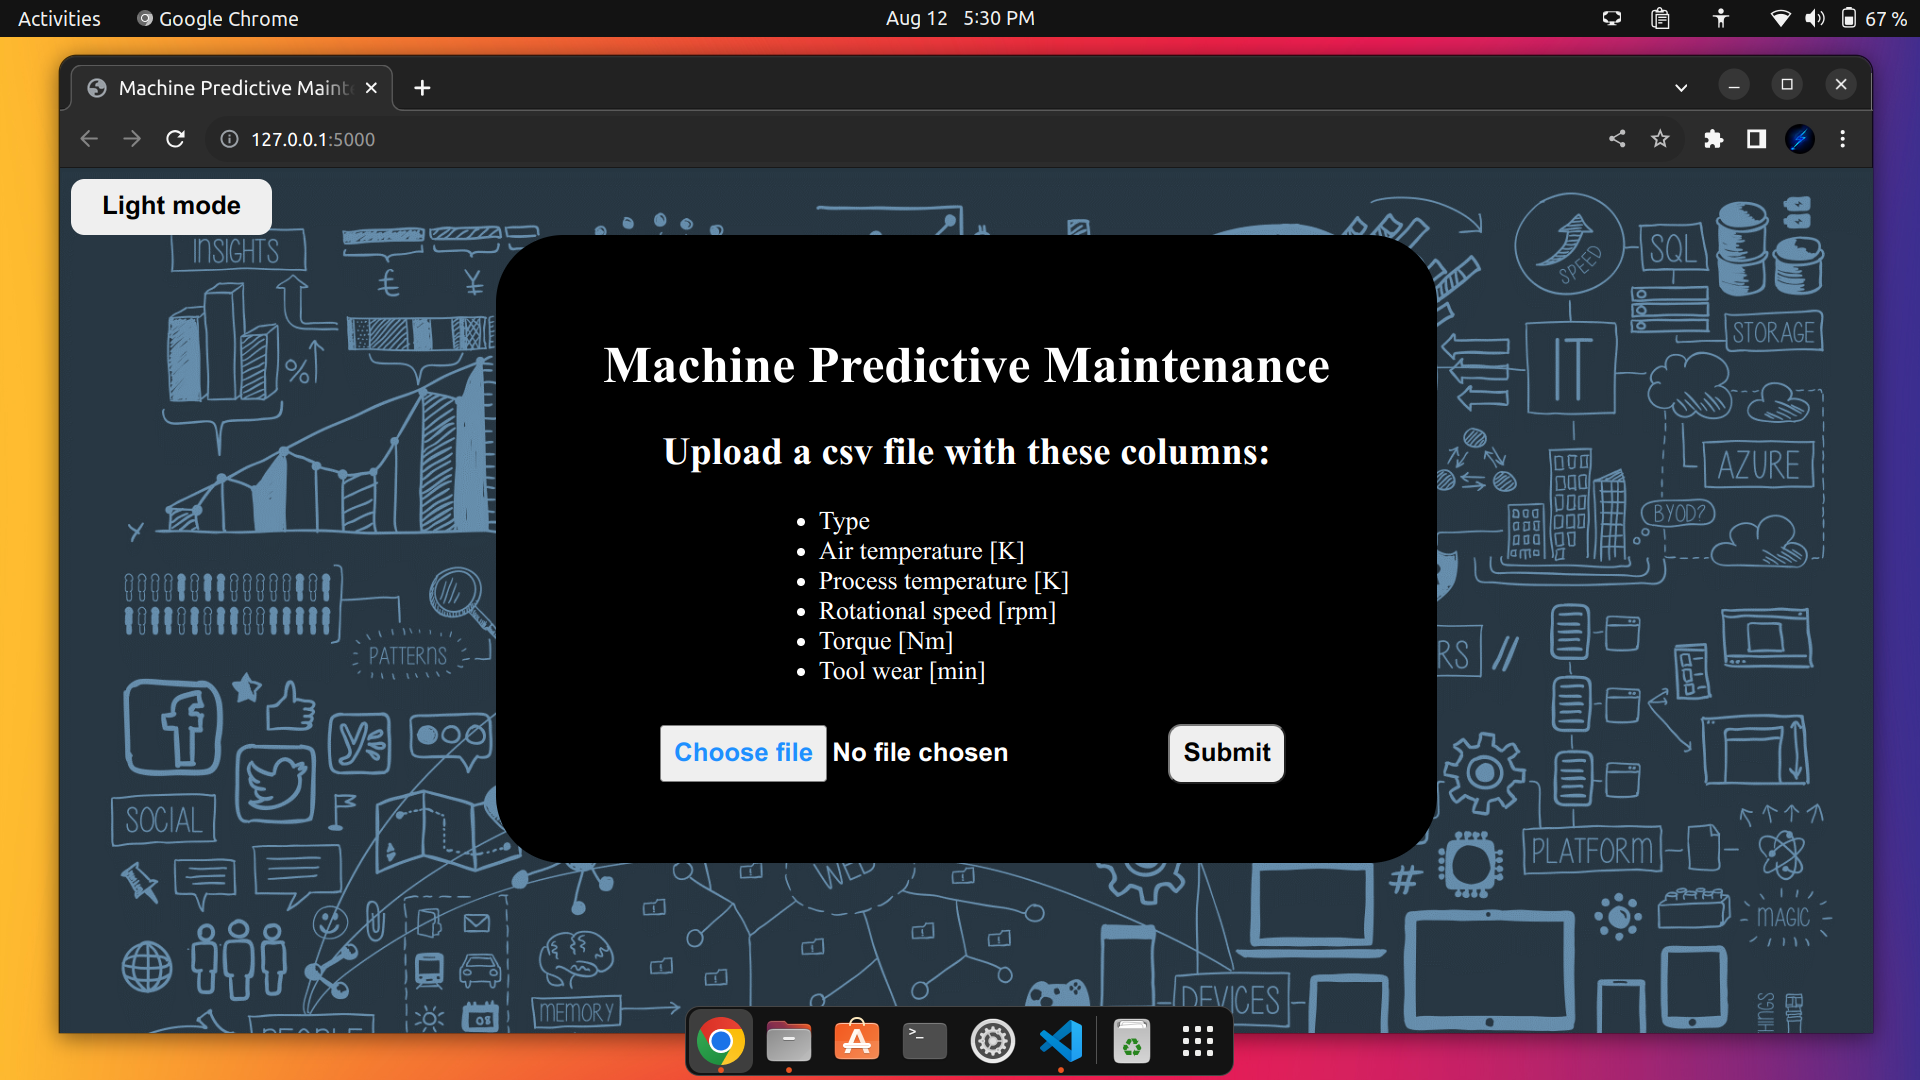
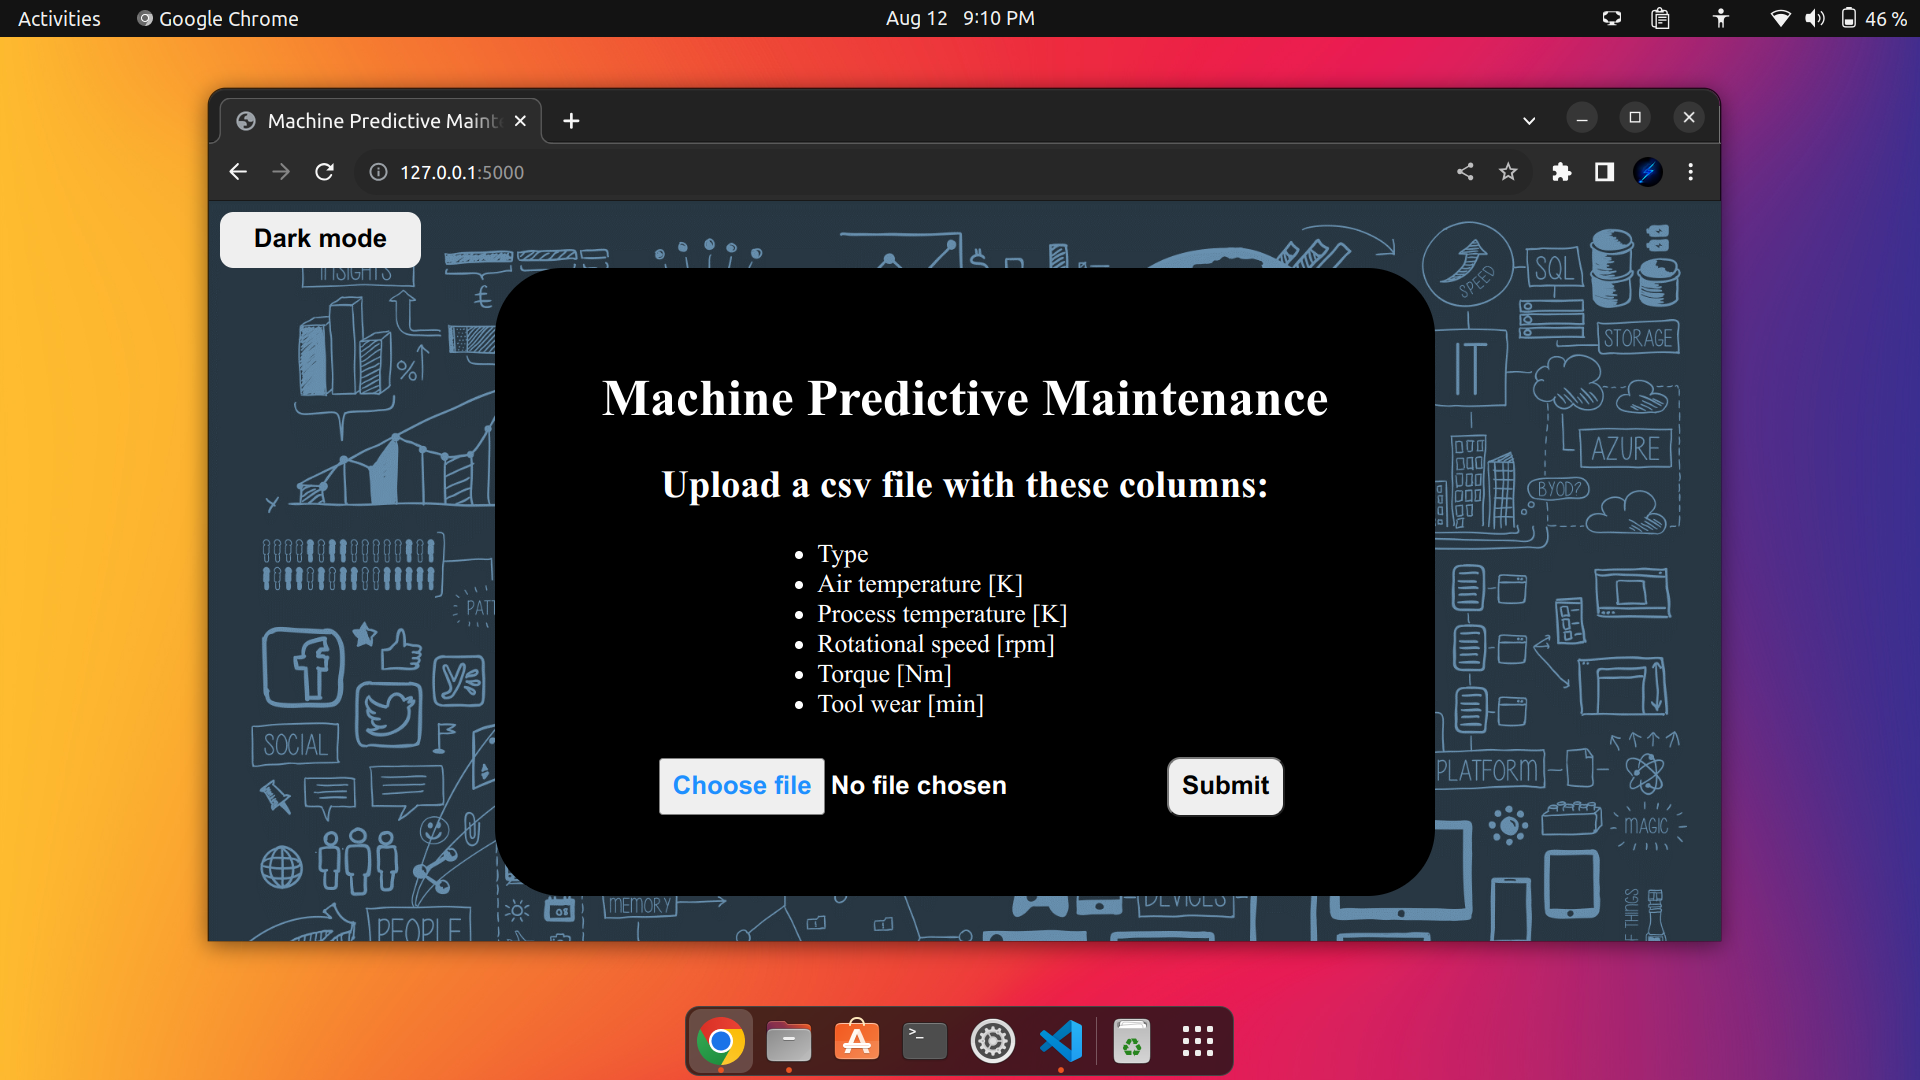
changed

diff --git a/project1/templates/index.html b/project1/templates/index.html
@@ -48,7 +48,7 @@
 </head>
 
 <body>
-    <button onclick="theme()" id="theme" class="btn" style="width: 150px; border: none;">Light mode</button>
+    <button onclick="theme()" id="theme" class="btn" style="width: 150px; border: none;">Dark mode</button>
     <center>
         <div id="main_div">
             <h1>Machine Predictive Maintenance</h1>
@@ -81,13 +81,13 @@
             if (mode == 'dark') {
                 document.body.style.color = 'black';
                 mode = 'light';
-                theme_button.innerText = 'Dark Mode';
+                theme_button.innerText = 'Light Mode';
                 main_div.style.backgroundColor = 'white'
                 document.body.style.backgroundImage = `url('static/${light_image}')`;
             } else {
                 document.body.style.color = 'white';
                 mode = 'dark';
-                theme_button.innerText = 'Light Mode';
+                theme_button.innerText = 'Dark Mode';
                 main_div.style.backgroundColor = 'black'
                 document.body.style.backgroundImage = `url('static/${dark_image}')`;
             }

diff --git a/project1/app.py b/project1/app.py
@@ -8,15 +8,14 @@ app = Flask(__name__)
 def home():
     if request.method == 'POST':
         f = request.files['file']
-        f.save('uploaded/'+f.filename)
+        f.save('uploaded/input.csv')
 
-        df = pd.read_csv('uploaded/'+f.filename)
+        df = pd.read_csv('uploaded/input.csv')
 
-        df1 = is_failure(df)
-        df2 = failure_type(df)
-        
-        df['is_failure'] = df1
-        df['failure_type'] = df2
+        df['is_failure'] = is_failure(df)
+        df['failure_type'] = failure_type(df)
+
+        df = df[df['is_failure'] == 1]
 
         df.to_csv('uploaded/output.csv', index=False)
 
@@ -24,4 +23,4 @@ def home():
     return render_template('index.html')
 
 if __name__ == '__main__':
-    app.run(debug=True, host='0.0.0.0', port=5000)
+    app.run(host='0.0.0.0', port=5000)
